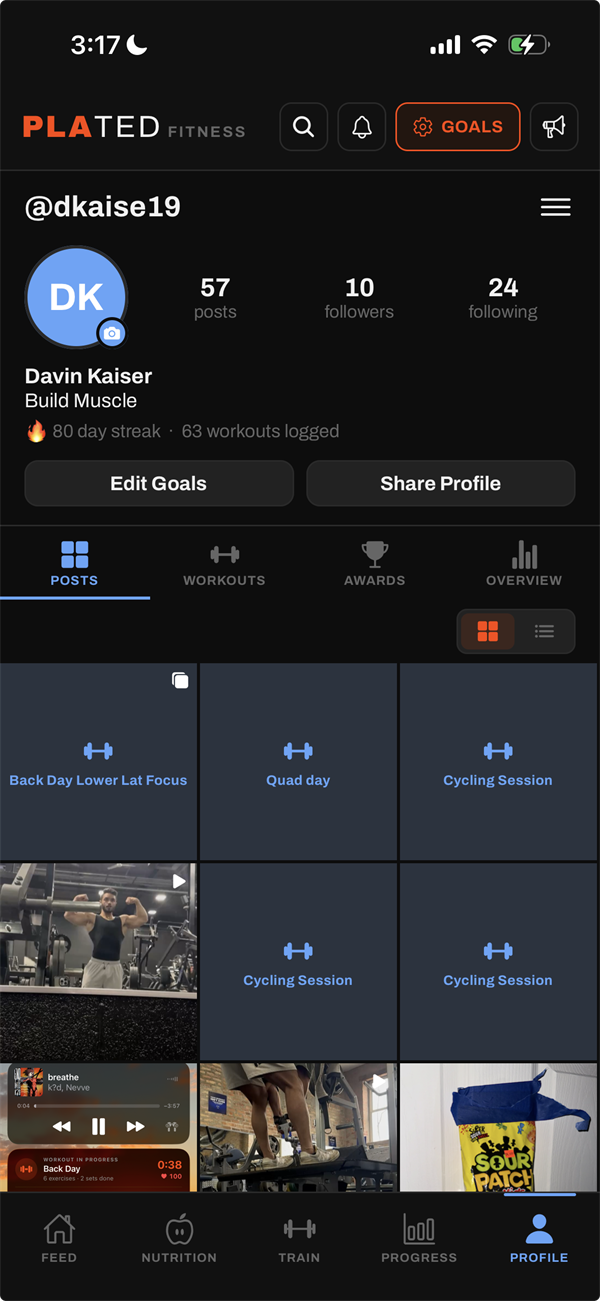
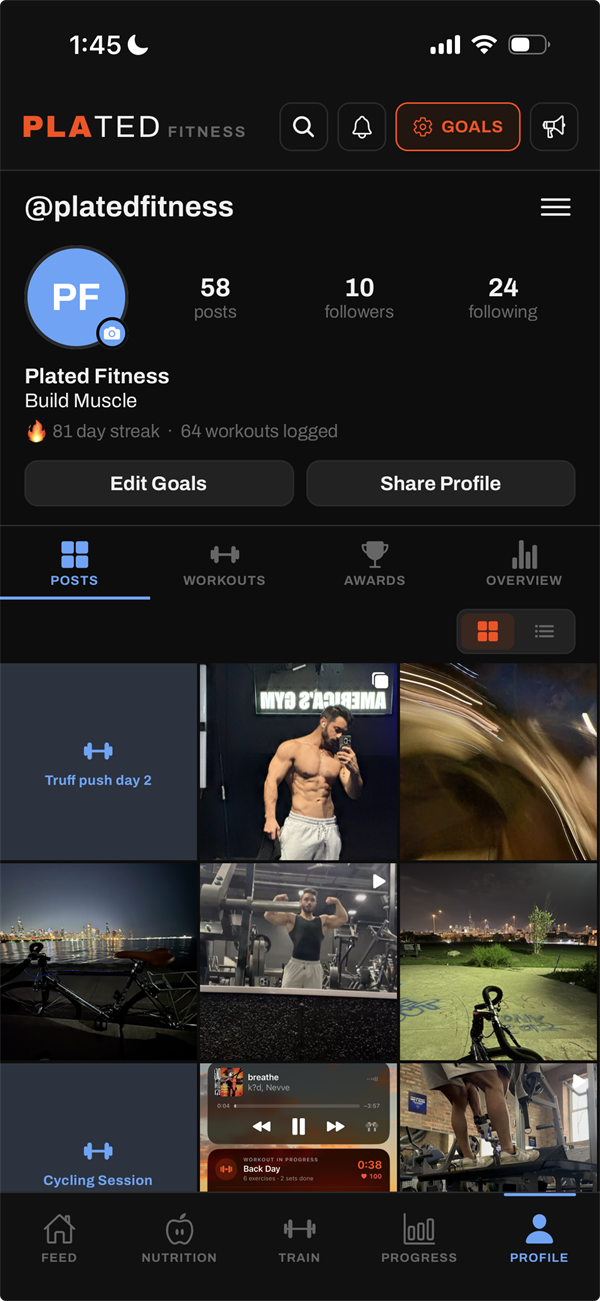
Show the brand's profile, not the founder's handle
The Profile screenshot in the hero and the tour carried a real personal
handle — @dkaise19, Davin Kaiser, DK. It now reads @platedfitness /
Plated Fitness / PF, rewritten in the app's own typeface upstream in the
app repo and republished here by scripts/publish-screenshots.js.

The alt text moves with it: it had described the old capture down to the
post and streak counts, which the new one changes.

diff --git a/index.html b/index.html
@@ -398,7 +398,7 @@
             Your streak, your posts, your workouts &mdash; and the people you follow, keeping each
             other honest. Public or private, your call.
           </p>
-          <div class="phone tour-inline"><img src="/assets/screens/profile.png" alt="A Plated profile: 57 posts, 10 followers, 24 following, an 80-day streak and 63 workouts logged, above a grid of shared workouts and photos." width="600" height="1301" loading="lazy"></div>
+          <div class="phone tour-inline"><img src="/assets/screens/profile.png" alt="The Plated Fitness profile: 58 posts, 10 followers, 24 following, an 81-day streak and 64 workouts logged, above a grid of shared workouts and photos." width="600" height="1301" loading="lazy"></div>
         </article>
 
       </div>
